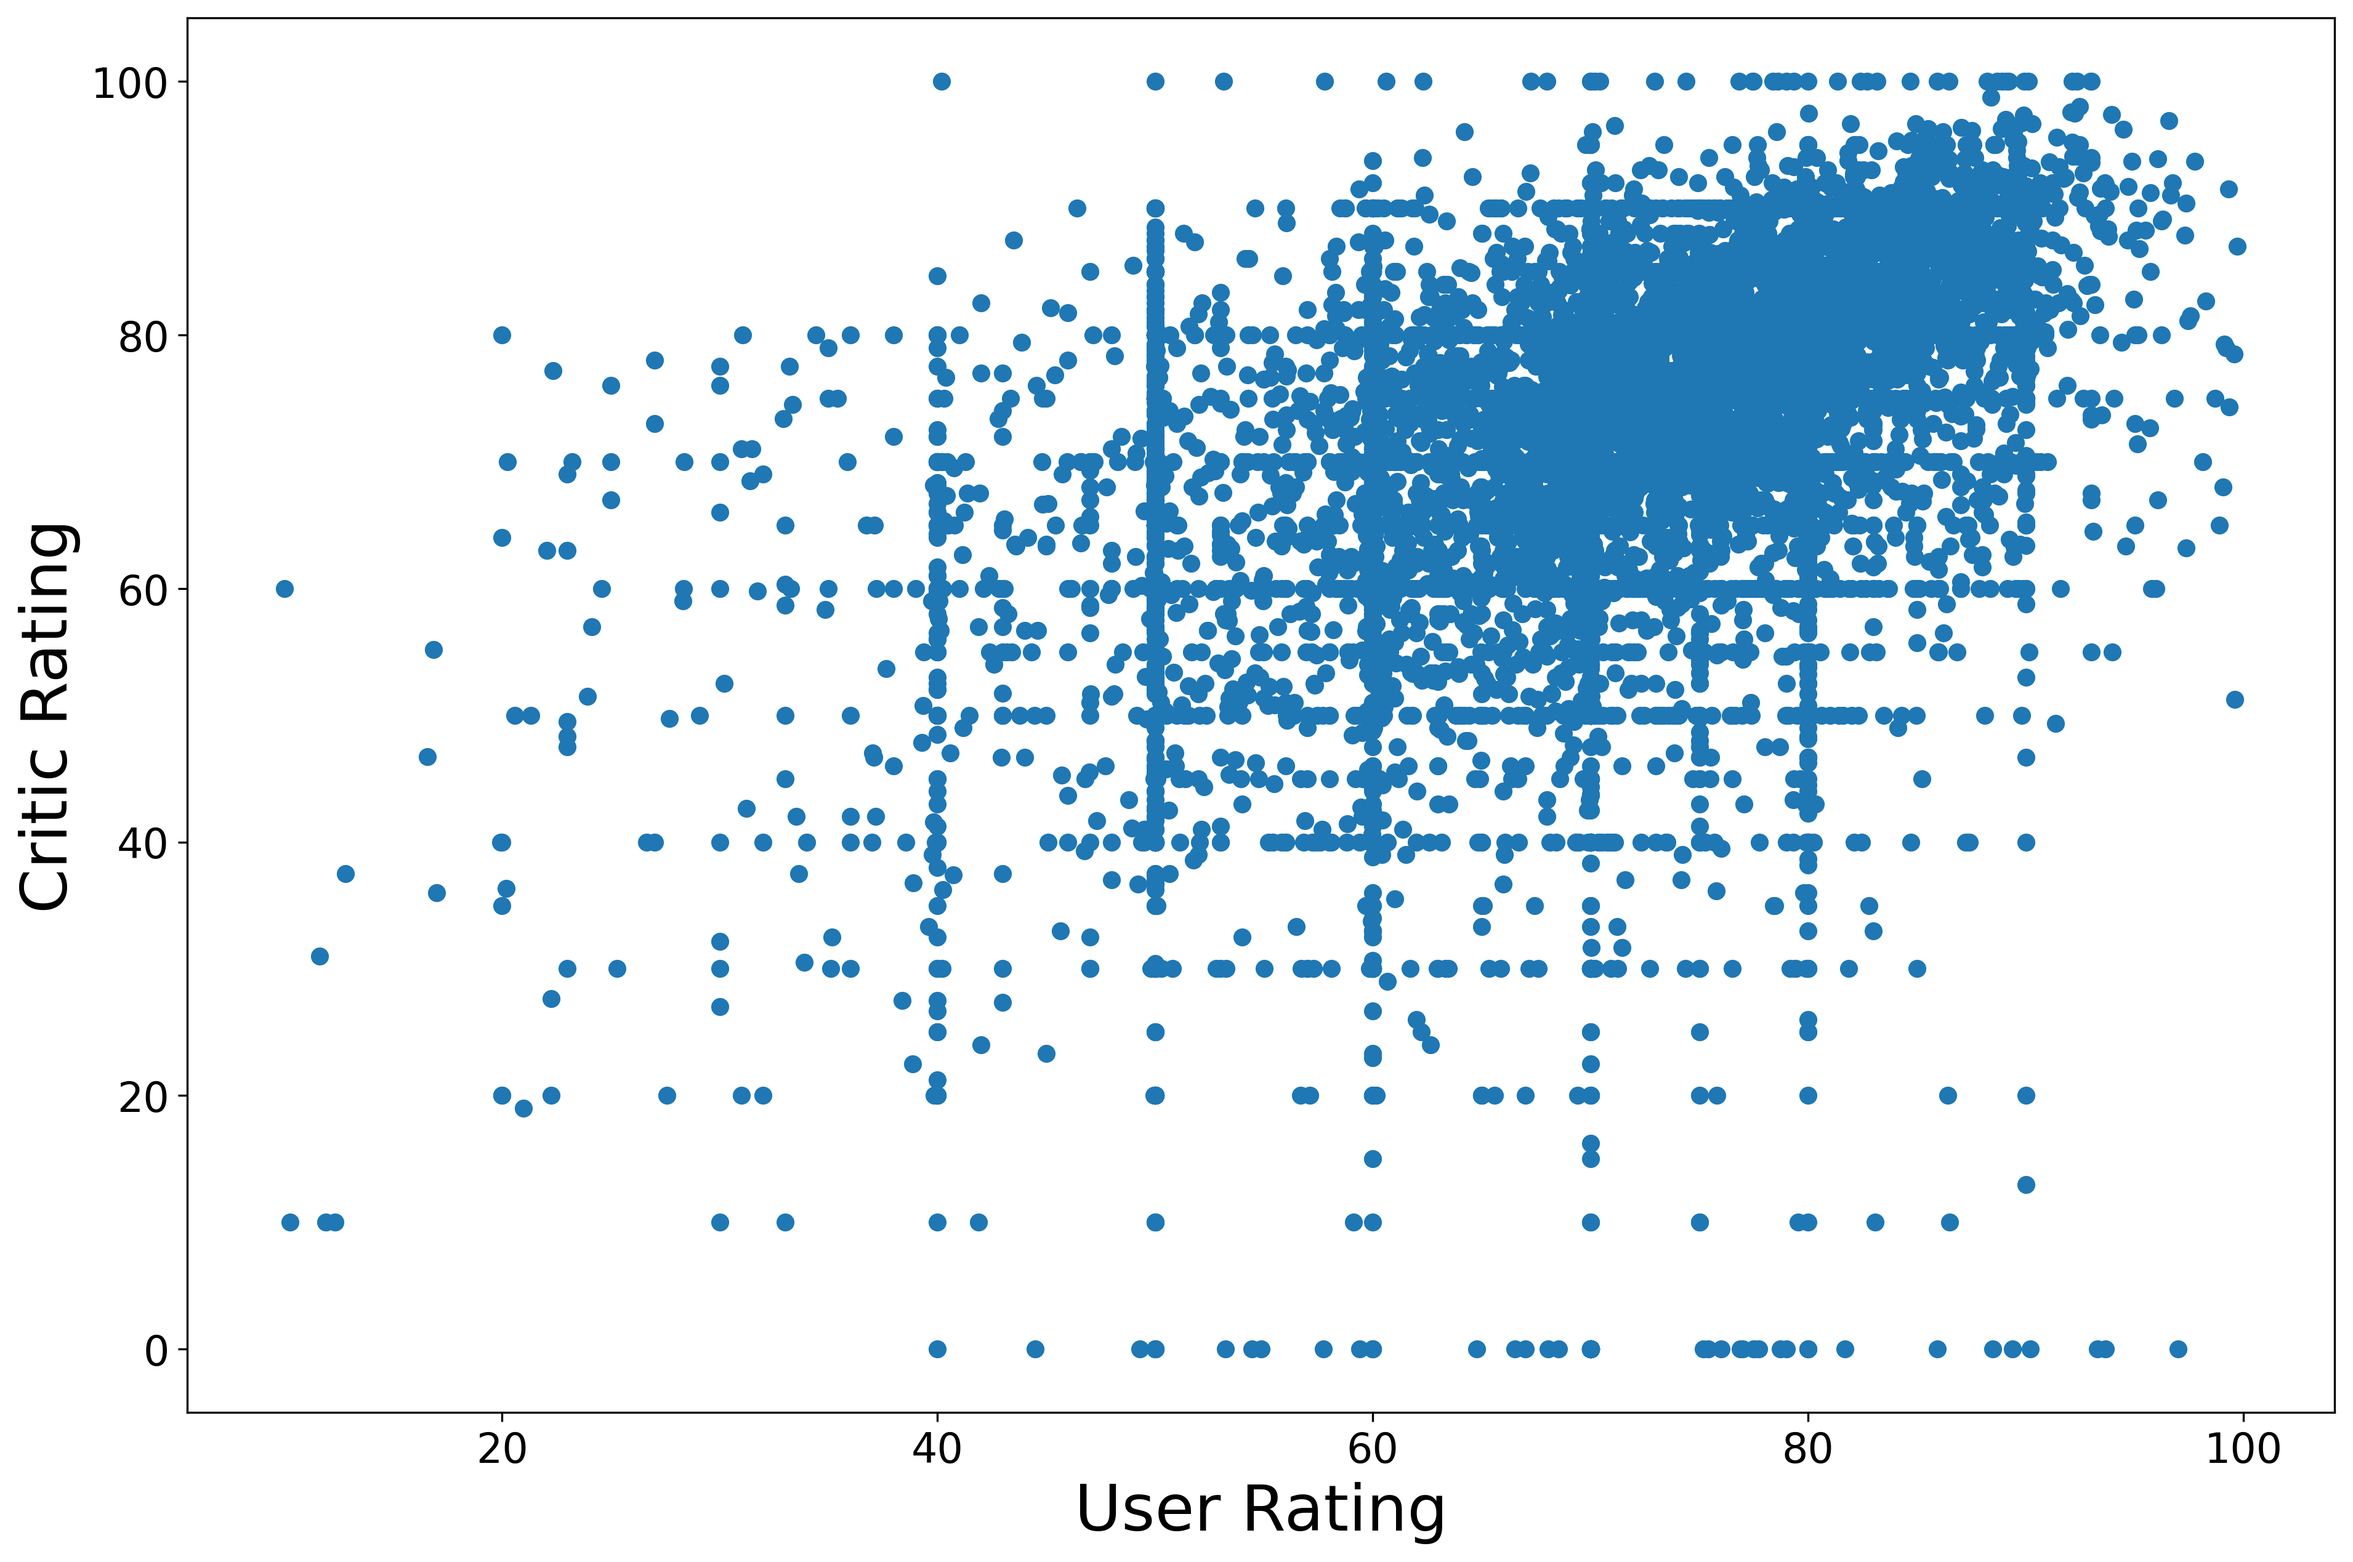
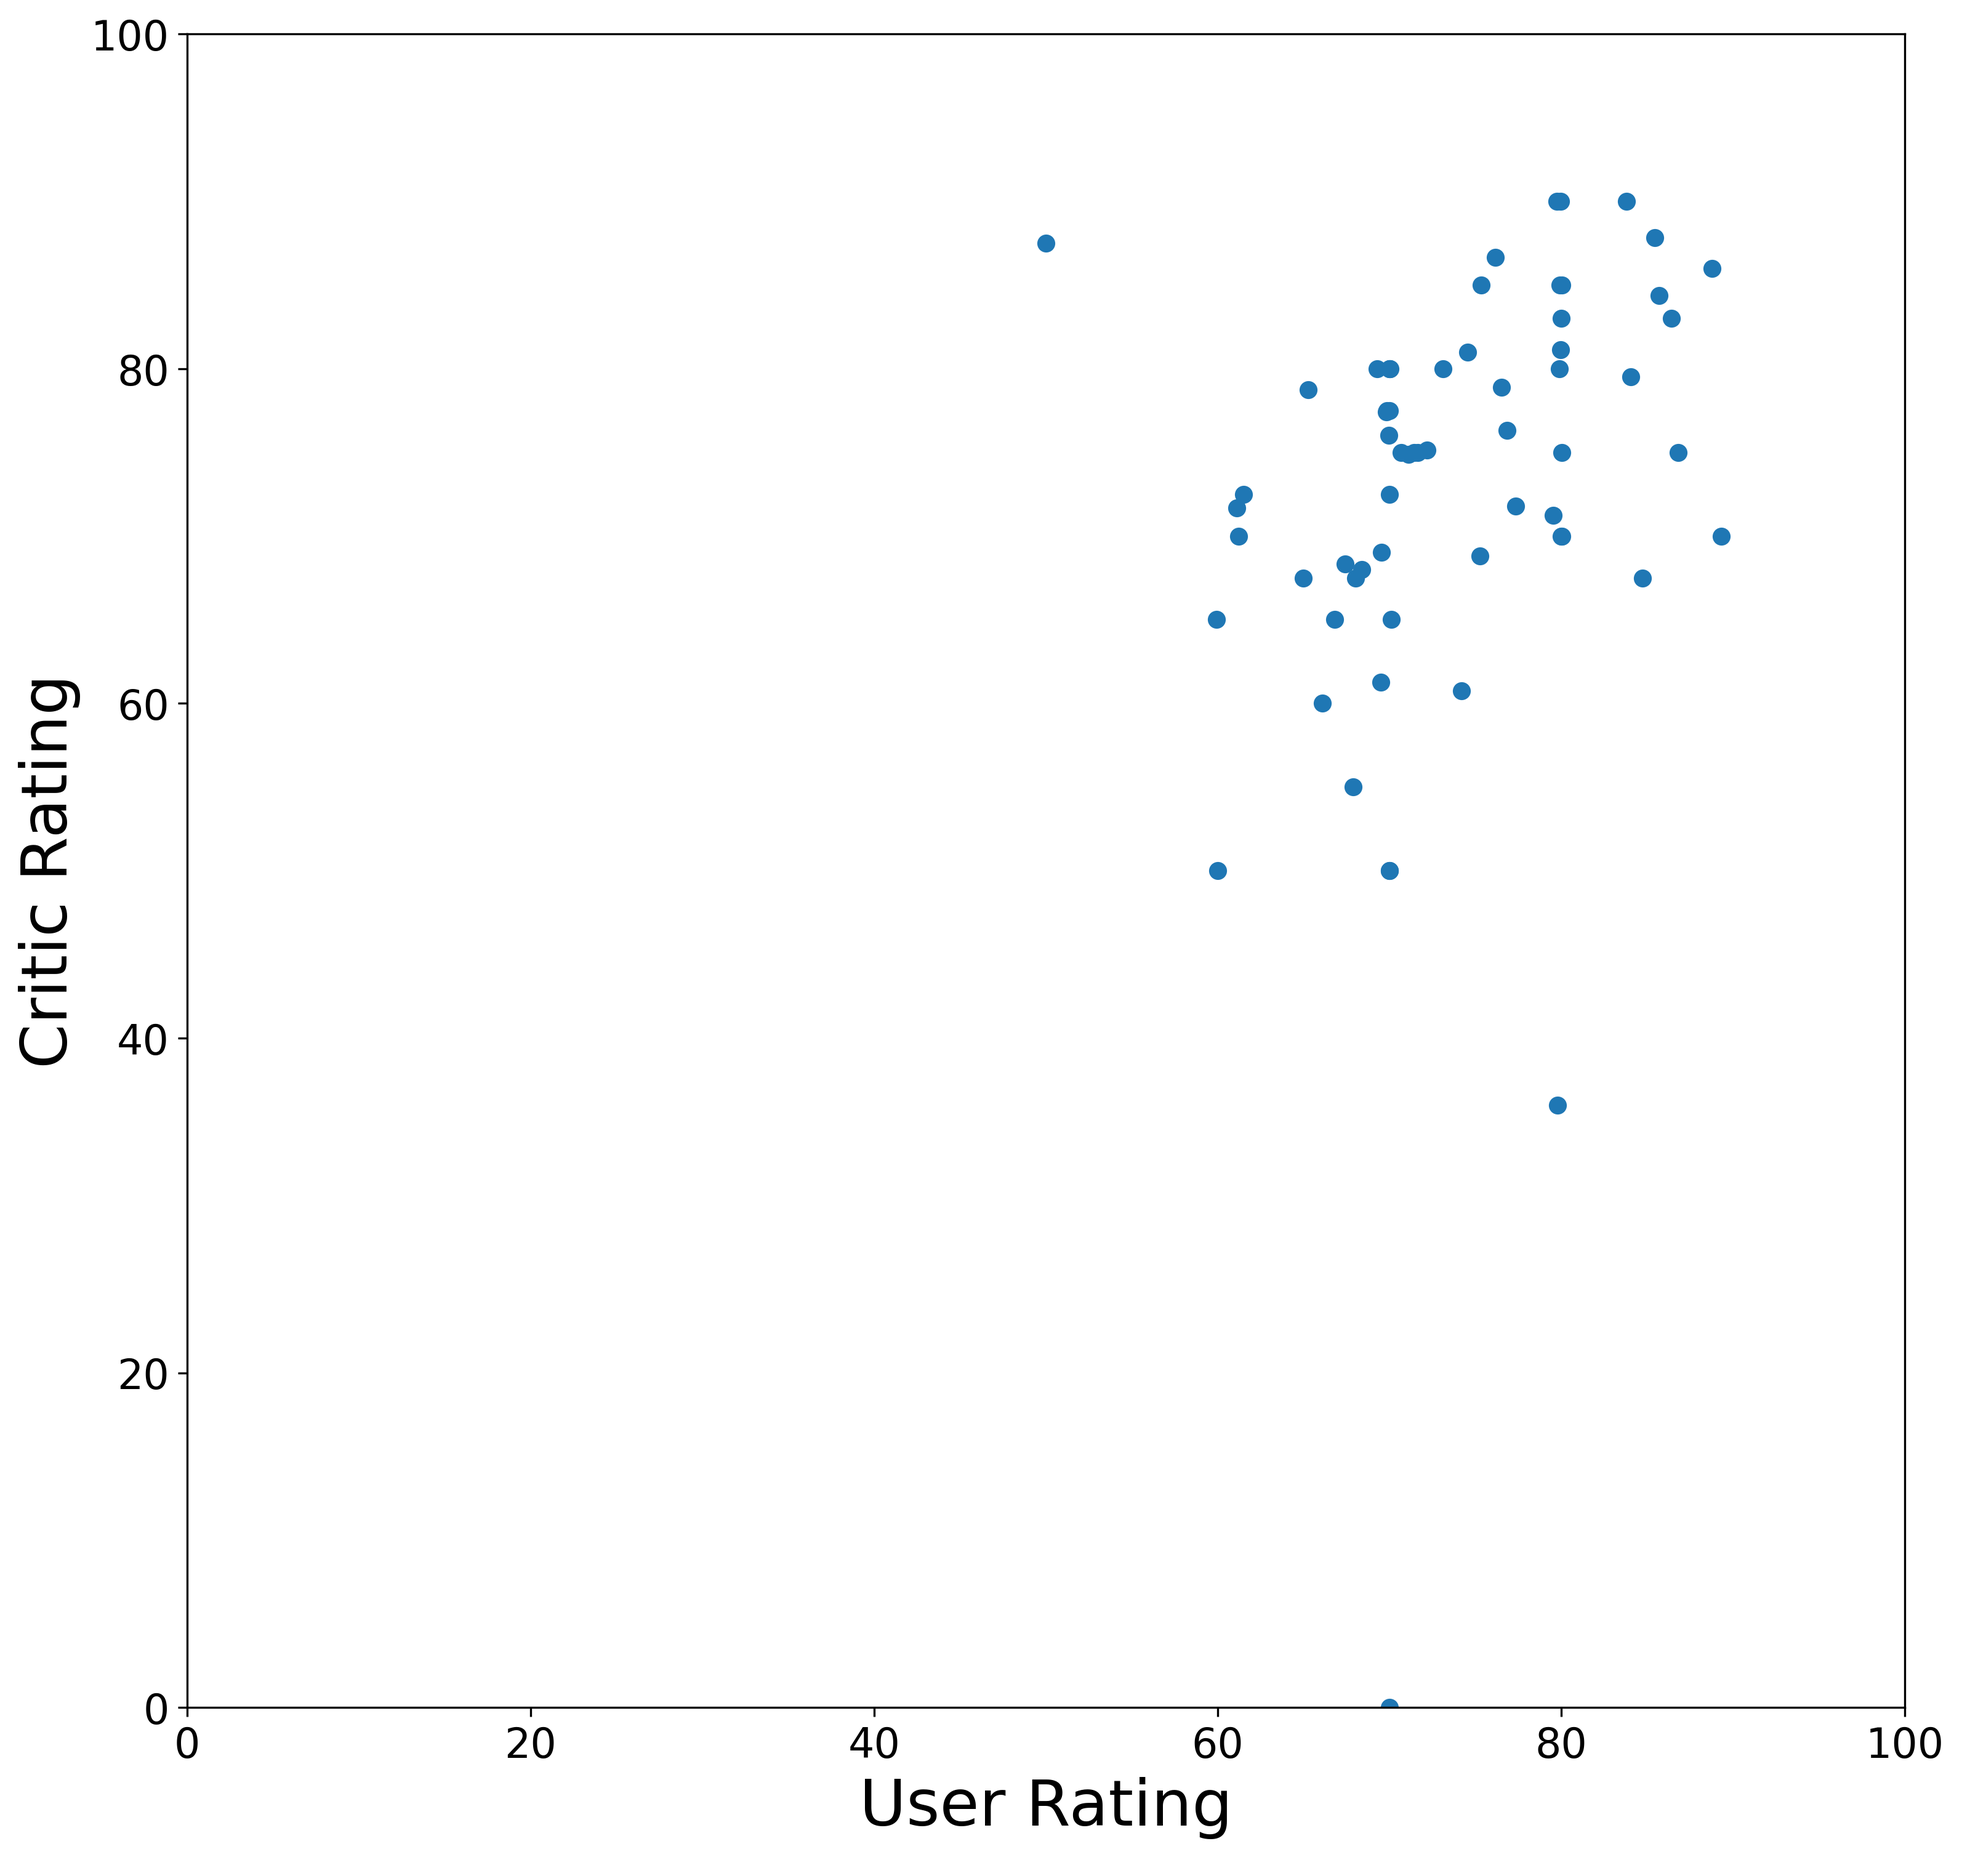
Updated with appropriate data
Also adding a note about why there seem to be so few data points

diff --git a/README.md b/README.md
@@ -28,3 +28,5 @@ To provide accessability to the outcomes of the process here are some visualizat
 
 ## Scatter plot of 'User Rating' vs 'Critic Rating' for Action Adventure Games
 ![scatterplot](images/visualization_ratings.png?raw=true "Scatterplot")
+
+* Note, not all games have received both a User Score and Critic Score. This scatterplot shows the game entries that have a value recorded for each feature
